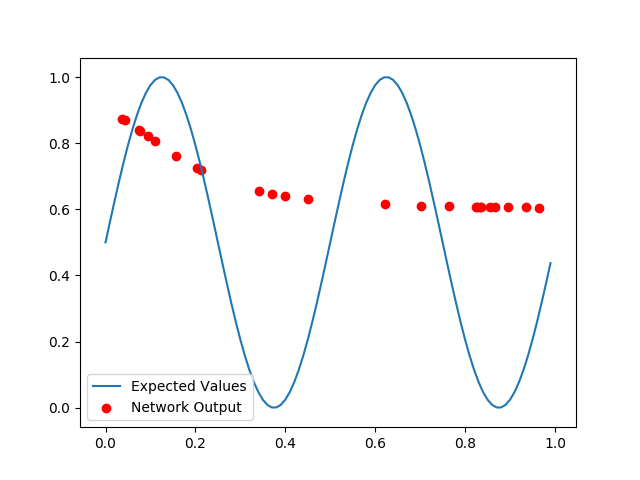
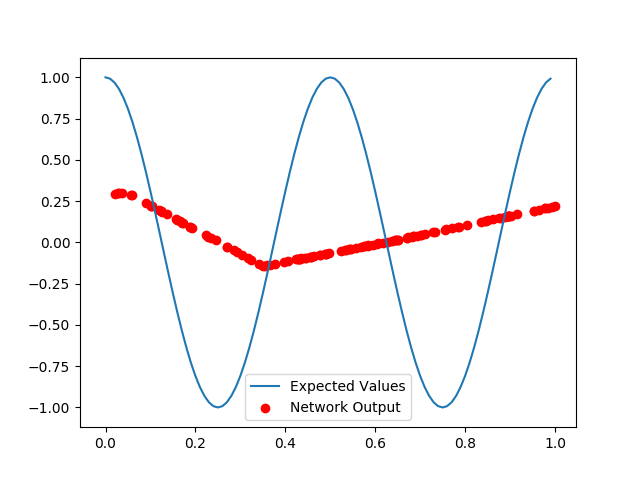
messing around with different activation functions and such

diff --git a/simple_neural_net.py b/simple_neural_net.py
@@ -14,13 +14,15 @@ import numpy as np
 # is the number of neurons in the layer previous to N, which
 # are connected to the neurons in layer N
 
+# TODO: dynamically set activation function
+# TODO: decrease learning rate proportionally to error
+
 
 class Neuron:
     def __init__(self, learning_rate=0.1):
 
         self.__synapses_in = []
         self.__synapses_out = []
-        #self.__activation = np.random.uniform(-1,1)
         self.__bias = np.random.uniform(-1, 1)
         self.__learning_rate = learning_rate
 
@@ -49,7 +51,7 @@ class Neuron:
         self.__synapses_out = synapses
 
     def tanh(self, x):
-        return np.tanh( x)
+        return np.tanh(x)
 
     def dtanh(self, x):
         return 1. - x * x
@@ -67,20 +69,17 @@ class Neuron:
     def dsigmoid(self, x):
         return x * (1.0 - x)
 
-    def linear(self,x):
-        if x <-1 : 
+    def linear(self, x):
+        if x < -1:
             return -1
-        if x > 1 : 
+        if x > 1:
             return 1
-        else: 
-            return x
-        
-    def dlinear(self, x):
-        if x<-1 or x>1: 
-            return 0
-        else: 
-            return 1
+        return x
 
+    def dlinear(self, x):
+        if x < -1 or x > 1:
+            return 0
+        return 1
 
     def transfer(self, x):
         if self.__synapses_out == []:
@@ -129,28 +128,28 @@ class Neuron:
     def output(self, output):
         self.__output = output
 
-    def activate(self, inputs=None):
-        if inputs is None:
+    def activate(self, network_input=None):
+        if network_input is None:
 
             inputs = [synapse.neuron_in.output for synapse in self.__synapses_in]
             weights_in = [synapse.weight for synapse in self.__synapses_in]
+
+            self.__activation = np.dot(weights_in, inputs) + self.__bias
+
+            self.output = self.transfer(self.__activation)
 
         # input was directly provided to neuron, meaning this is a
         # first layer neuron. In this case, each Neuron has only one
         # input and one weight. This will be used to calculate its transfer
         # function
         else:
-            if isinstance(inputs, list) and len(inputs) != 1:
+            if isinstance(network_input, list) and len(inputs) != 1:
                 raise ValueError("Neuron input should be a single element")
-            if isinstance(inputs, list):
-                inputs = inputs[0]
-           # set the weight as 1 to transfer the full input to the
-           # layer's output
-            weights_in = 1
 
-        self.__activation = np.dot(weights_in, inputs) + self.__bias
+            if isinstance(network_input, list):
+                network_input = network_input[0]
 
-        self.output = self.transfer(self.__activation)
+            self.output = network_input
 
 
 class Synapse:
@@ -251,7 +250,7 @@ class Network:
                 # as oppsed to the weight/error for the next connected layer
                 if layer_index == len(self.__layers) - 1:
                     neuron.calculate_error(expected_output[neuron_index])
-                    #print ("Expected: %.4f, actual: %.4f, delta: %.4f" %(expected_output[neuron_index],neuron.output, neuron.delta))
+                    # print ("Expected: %.4f, actual: %.4f, delta: %.4f" %(expected_output[neuron_index],neuron.output, neuron.delta))
                 else:
                     neuron.calculate_error()
                 neuron.update_weights()

diff --git a/train_test_network.py b/train_test_network.py
@@ -13,7 +13,10 @@ def target_function(x):
     # multiply by 0.5 to reduce all output from [0,2]
     # to [0,1]
     # return (1.0 + np.sin(2*2 * np.pi * x)) * 0.5
-    return np.sin(2*2*np.pi*x)
+
+    # return np.sin(2 * 2 * np.pi * x)
+    # return np.cos(2 * np.pi * x)
+    return - (x)**2 + 1
 
 
 def train_test_sin(network, num_passes=500, ratio=0.1, target_function=target_function):
@@ -76,7 +79,7 @@ if __name__ == "__main__":
     network = Network(shape=[1, 10, 25, 1], learning_rate=0.01)
 
     errors = []
-    num_epochs = 100
+    num_epochs = 500
 
     # prepare a graph that will update with the result of the
     # testing phase after each epoch
